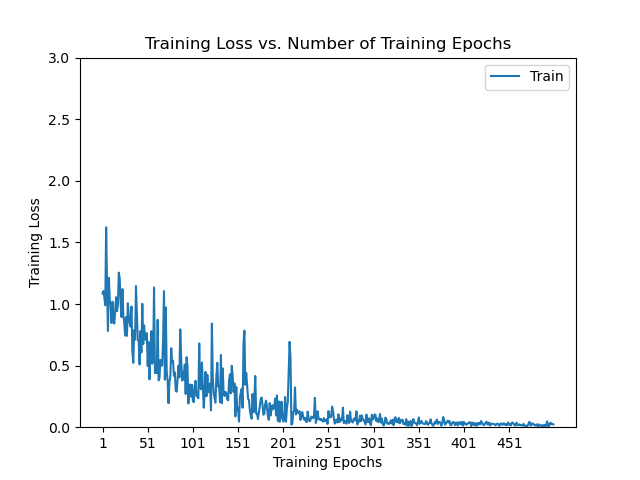
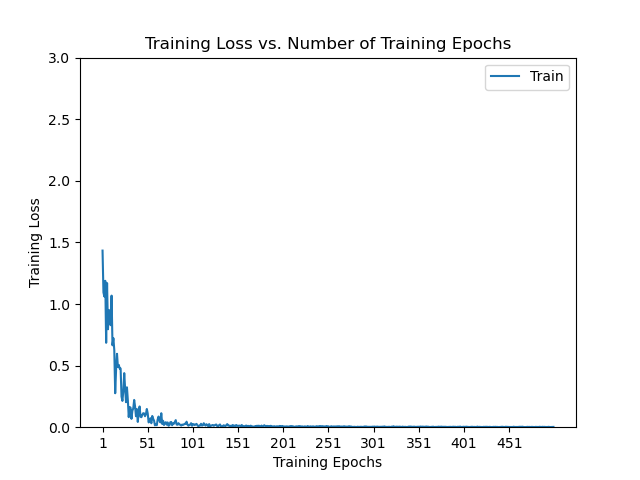
Début d'implem gpt pour le 3 + correction du 2 pour faire plusieurs batches par epoch

Changed region(s): [[0.1562, 0.4688, 0.875, 0.9062]]

diff --git a/Quentin/lfi-03/lfi-03/two-layer_nn.py b/Quentin/lfi-03/lfi-03/two-layer_nn.py
@@ -12,7 +12,7 @@ learning_rate = 0.0001
 num_epochs = 500
 batch_size = 4
 
-loss_mode = 'cross_entropy'
+loss_mode = 'cross_entropy'  # 'mse' or 'cross_entropy'
 
 loss_train_hist = []
 
@@ -95,7 +95,7 @@ def setup_train():
     counter = 0
     for (label, fnames) in enumerate(train_images):
         for fname in fnames:
-            print(label, fname)
+            # print(label, fname)
             img = cv2.imread(fname, cv2.IMREAD_GRAYSCALE)
             img = cv2.resize(img, (nn_img_size, nn_img_size),
                              interpolation=cv2.INTER_AREA)
@@ -171,7 +171,7 @@ def train(X_train, y_train):
     # for simplicity of this execise you don't need to find useful hyperparameter
     # I've done this for you already and every test image should work for the
     # given very small trainings database and the following parameters.
-    h = 1500
+    h = 1500 # number of hidden units
     std = 0.001
 
     Input_size = X_train.shape[1]
@@ -186,42 +186,49 @@ def train(X_train, y_train):
 
     Trainset_size = X_train.shape[0]
 
+
     # run for num_epochs
-    for i in range(num_epochs):
+    for epoch in range(num_epochs):
 
         # use only a batch of batch_size of the training images in each run
         # sample the batch images randomly from the training set
         # YOUR CODE HERE
 
-        # sample a random batch
-        idx = np.random.choice(Trainset_size, batch_size, replace=False)
-        X_batch = X_train[idx]
-        y_batch = y_train[idx]
+        # sample random batches
+        indices = np.random.permutation(Trainset_size)
 
-        # forward pass for two-layer neural network using ReLU as activation function
-        loss, a2, a1 = forward(X_batch, y_batch, W1, W2, b1, b2)
+        for start_id in range(0, Trainset_size, batch_size):
+            end_id = start_id + batch_size
+            if end_id > Trainset_size:
+                break
 
+            batch_idx = indices[start_id:end_id]
+            X_batch = X_train[batch_idx]
+            y_batch = y_train[batch_idx]
+            # forward pass for two-layer neural network using ReLU as activation function
+            loss, a2, a1 = forward(X_batch, y_batch, W1, W2, b1, b2)
+
+            # backward pass
+            dLdW1, dLdW2, dLdb1, dLdb2 = backward(a2, a1, X_batch, y_batch, W2, a1)
+
+            # print("dCdb2.shape:", dCdb2.shape, dCdb1.shape)
+
+            # depending on the derivatives of W1, and W2 regaring the cost/loss
+            # we need to adapt the values in the negative direction of the
+            # gradient decreasing towards the minimum
+            # we weight the gradient by a learning rate
+            # YOUR CODE HERE
+            W1 = W1 - learning_rate * dLdW1
+            W2 = W2 - learning_rate * dLdW2
+            b1 = b1 - learning_rate * dLdb1
+            b2 = b2 - learning_rate * dLdb2
+
+        
         # print each 10 epochs passed
-        if i % 10 == 0:
-            print(f"iteration {i}: loss {loss}")
-
+        if epoch % 10 == 0:
+            print(f"iteration {epoch}: \tloss {loss}")
         # add loss to loss_train_hist for plotting
-        loss_train_hist.append(loss)
-
-        # backward pass
-        dLdW1, dLdW2, dLdb1, dLdb2 = backward(a2, a1, X_batch, y_batch, W2, a1)
-
-        # print("dCdb2.shape:", dCdb2.shape, dCdb1.shape)
-
-        # depending on the derivatives of W1, and W2 regaring the cost/loss
-        # we need to adapt the values in the negative direction of the
-        # gradient decreasing towards the minimum
-        # we weight the gradient by a learning rate
-        # YOUR CODE HERE
-        W1 = W1 - learning_rate * dLdW1
-        W2 = W2 - learning_rate * dLdW2
-        b1 = b1 - learning_rate * dLdb1
-        b2 = b2 - learning_rate * dLdb2
+        loss_train_hist.append(loss)    
 
     return W1, W2, b1, b2
 
@@ -233,6 +240,8 @@ W1, W2, b1, b2 = train(X_train, y_train)
 # run prediction by computing the forward pass
 test_images = []
 test_images.append((cv2.imread('./images/db/test/flower2.jpg',
+                               cv2.IMREAD_GRAYSCALE), 1))
+test_images.append((cv2.imread('./images/db/test/flower.jpg',
                                cv2.IMREAD_GRAYSCALE), 1))
 test_images.append((cv2.imread('./images/db/test/car.jpg',
                                cv2.IMREAD_GRAYSCALE), 0))

diff --git a/Quentin/lfi-03/lfi-03/cnn.py b/Quentin/lfi-03/lfi-03/cnn.py
@@ -38,6 +38,92 @@ class MyNeuralNetwork(nn.Module):
 
     def name(self):
         return "MyNeuralNetwork"
+    
+class SimpleCNN(nn.Module):
+    def __init__(self):
+        super(SimpleCNN, self).__init__()
+
+        self.conv1 = nn.Conv2d(1, 32, kernel_size=3, padding=1)
+        self.conv2 = nn.Conv2d(32, 64, kernel_size=3, padding=1)
+
+        self.pool = nn.MaxPool2d(2, 2)
+
+        self.fc1 = nn.Linear(64 * 7 * 7, 128)
+        self.fc2 = nn.Linear(128, 10)
+
+    def forward(self, x):
+        x = self.pool(F.relu(self.conv1(x)))  # 28 → 14
+        x = self.pool(F.relu(self.conv2(x)))  # 14 → 7
+
+        x = x.view(x.size(0), -1)              # flatten
+        x = F.relu(self.fc1(x))
+        x = self.fc2(x)                        # logits (no softmax!)
+
+        return x
+
+    def name(self):
+        return "SimpleCNN"
+    
+class LeNet(nn.Module):
+    def __init__(self):
+        super(LeNet, self).__init__()
+
+        self.conv1 = nn.Conv2d(1, 6, kernel_size=5)
+        self.conv2 = nn.Conv2d(6, 16, kernel_size=5)
+
+        self.pool = nn.AvgPool2d(2, 2)
+
+        self.fc1 = nn.Linear(16 * 4 * 4, 120)
+        self.fc2 = nn.Linear(120, 84)
+        self.fc3 = nn.Linear(84, 10)
+
+    def forward(self, x):
+        x = self.pool(F.relu(self.conv1(x)))  # 28 → 12
+        x = self.pool(F.relu(self.conv2(x)))  # 12 → 4
+
+        x = x.view(x.size(0), -1)
+        x = F.relu(self.fc1(x))
+        x = F.relu(self.fc2(x))
+        x = self.fc3(x)
+
+        return x
+
+    def name(self):
+        return "LeNet"
+    
+class VGGStyleCNN(nn.Module):
+    def __init__(self):
+        super(VGGStyleCNN, self).__init__()
+
+        self.features = nn.Sequential(
+            nn.Conv2d(1, 32, 3, padding=1),
+            nn.ReLU(),
+            nn.Conv2d(32, 32, 3, padding=1),
+            nn.ReLU(),
+            nn.MaxPool2d(2),  # 28 → 14
+
+            nn.Conv2d(32, 64, 3, padding=1),
+            nn.ReLU(),
+            nn.Conv2d(64, 64, 3, padding=1),
+            nn.ReLU(),
+            nn.MaxPool2d(2)   # 14 → 7
+        )
+
+        self.classifier = nn.Sequential(
+            nn.Linear(64 * 7 * 7, 256),
+            nn.ReLU(),
+            nn.Dropout(0.5),
+            nn.Linear(256, 10)
+        )
+
+    def forward(self, x):
+        x = self.features(x)
+        x = x.view(x.size(0), -1)
+        x = self.classifier(x)
+        return x
+
+    def name(self):
+        return "VGGStyleCNN"
 
 
 def training(model, data_loader, optimizer, criterion, device):
@@ -137,14 +223,15 @@ torch.manual_seed(0)
 
 # hyperparameter
 # TODO: find good hyperparameters
-# batch_size = ...
-# num_epochs = ...
-# learning_rate = ...
-# momentum = ...
+batch_size = 64
+num_epochs = 5
+learning_rate = 0.01
+momentum = 0.9
 
 transform = transforms.Compose([
     # you can add other transformations in this list
-    transforms.ToTensor()
+    transforms.ToTensor(),
+    transforms.Normalize((0.5,), (0.5,))
 ])
 
 # load train and test data
@@ -167,7 +254,9 @@ train_loader = DataLoader(dataset=train_set, shuffle=True, **loader_params)
 test_loader = DataLoader(dataset=test_set, shuffle=False, **loader_params)
 
 ## model setup
-model = MyNeuralNetwork().to(device)
+# model = VGGStyleCNN().to(device)
+# model = LeNet().to(device)
+model = SimpleCNN().to(device)
 optimizer = optim.SGD(model.parameters(), lr=learning_rate, momentum=momentum)
 criterion = nn.CrossEntropyLoss()
 

diff --git a/Quentin/lfi-03/lfi-03/svm.py b/Quentin/lfi-03/lfi-03/svm.py
@@ -41,6 +41,7 @@ image_paths = glob.glob('./images/db/train/*/*.jpg')
 X_train = []
 y_train = []
 label_map = {}
+label_map_inversed = {}
 label_counter = 0
 
 for image_path in image_paths:
@@ -61,6 +62,7 @@ for image_path in image_paths:
     label = image_path.split('/')[-2]
     if label not in label_map:
         label_map[label] = label_counter
+        label_map_inversed[label_counter] = label
         label_counter += 1
     y_train.append(label_map[label])
 
@@ -114,7 +116,8 @@ errors = 0
 for i in range(len(test_image_paths)) :
     if y_pred_linear[i] != y_test[i]:
         errors += 1
-    print(f"{test_image_paths[i].split('/')[-1]} : prediction = {y_pred_linear[i]}, reality = {y_test[i]}")
+    print(f"{test_image_paths[i].split('/')[-1]} : \tprediction = {y_pred_linear[i]} ({label_map_inversed[y_pred_linear[i]]}),   \treality = {y_test[i]} ({label_map_inversed[y_test[i]]})")
+
 accuracy = ((len(test_image_paths) - errors) / (len(test_image_paths)))*100
 print(f"accuracy on test data : {accuracy}%")
 
@@ -124,7 +127,7 @@ errors = 0
 for i in range(len(test_image_paths)) :
     if y_pred_rbf[i] != y_test[i]:
         errors += 1
-    print(f"{test_image_paths[i].split('/')[-1]} : prediction = {y_pred_rbf[i]}, reality = {y_test[i]}")
+    print(f"{test_image_paths[i].split('/')[-1]} : \tprediction = {y_pred_rbf[i]} ({label_map_inversed[y_pred_rbf[i]]}),    \treality = {y_test[i]} ({label_map_inversed[y_test[i]]})")
 accuracy = ((len(test_image_paths) - errors) / (len(test_image_paths)))*100
 print(f"accuracy on test data : {accuracy}%")
 
@@ -134,6 +137,7 @@ errors = 0
 for i in range(len(test_image_paths)) :
     if y_pred_poly[i] != y_test[i]:
         errors += 1
-    print(f"{test_image_paths[i].split('/')[-1]} : prediction = {y_pred_poly[i]}, reality = {y_test[i]}")
+    print(f"{test_image_paths[i].split('/')[-1]} : \tprediction = {y_pred_poly[i]} ({label_map_inversed[y_pred_poly[i]]}),    \treality = {y_test[i]} ({label_map_inversed[y_test[i]]})")
+
 accuracy = ((len(test_image_paths) - errors) / (len(test_image_paths)))*100
 print(f"accuracy on test data : {accuracy}%")
